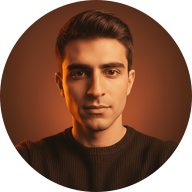
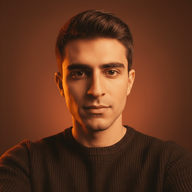
—

diff --git a/scripts/generate-icons.ts b/scripts/generate-icons.ts
@@ -7,7 +7,6 @@ const APP_DIR = path.join(process.cwd(), "src", "app");
 const SOURCE_IMAGE = path.join(PUBLIC_DIR, "profile_image.png");
 
 const FAVICON_SIZES = [16, 32, 48] as const;
-const WHITE = { r: 255, g: 255, b: 255, alpha: 1 };
 
 function assert_source_exists() {
   if (!fs.existsSync(SOURCE_IMAGE)) {
@@ -39,8 +38,8 @@ function circle_mask_svg(size: number): Buffer {
   );
 }
 
-// Full-circle cutout, transparent outside the circle. Used for the browser-tab
-// favicon, where transparency is standard and blends into the tab bar / OS chrome.
+// Full-circle cutout, transparent outside the circle. Used only for the browser-tab
+// favicon, which the OS never re-masks — no browser applies its own shape on top.
 async function round_transparent(square: Buffer, size: number): Promise<Buffer> {
   const resized = await sharp(square)
     .resize(size, size, { fit: "cover" })
@@ -52,16 +51,13 @@ async function round_transparent(square: Buffer, size: number): Promise<Buffer> 
     .toBuffer();
 }
 
-// Full-circle cutout composited onto an opaque white square. Used for iOS/Android
-// home-screen icons, which shouldn't rely on transparency (iOS in particular can
-// render a transparent apple-touch-icon with an ugly black fill).
-async function round_on_white(square: Buffer, size: number): Promise<Buffer> {
-  const circle = await round_transparent(square, size);
-
-  return sharp({
-    create: { width: size, height: size, channels: 4, background: WHITE },
-  })
-    .composite([{ input: circle }])
+// Plain square resize, no rounding. Used for iOS/Android home-screen icons: both
+// platforms apply their own icon-shape mask on top of whatever you give them
+// (iOS's rounded-squircle, Android's adaptive-icon shape). Pre-rounding here would
+// get double-masked and clipped unpredictably, so these stay full-bleed squares.
+async function square_icon(square: Buffer, size: number): Promise<Buffer> {
+  return sharp(square)
+    .resize(size, size, { fit: "cover" })
     .png()
     .toBuffer();
 }
@@ -125,15 +121,15 @@ async function main() {
   );
   fs.writeFileSync(
     path.join(APP_DIR, "apple-icon.png"),
-    await round_on_white(square, 180)
+    await square_icon(square, 180)
   );
   fs.writeFileSync(
     path.join(PUBLIC_DIR, "web-app-manifest-192x192.png"),
-    await round_on_white(square, 192)
+    await square_icon(square, 192)
   );
   fs.writeFileSync(
     path.join(PUBLIC_DIR, "web-app-manifest-512x512.png"),
-    await round_on_white(square, 512)
+    await square_icon(square, 512)
   );
 
   console.log("Generated:");